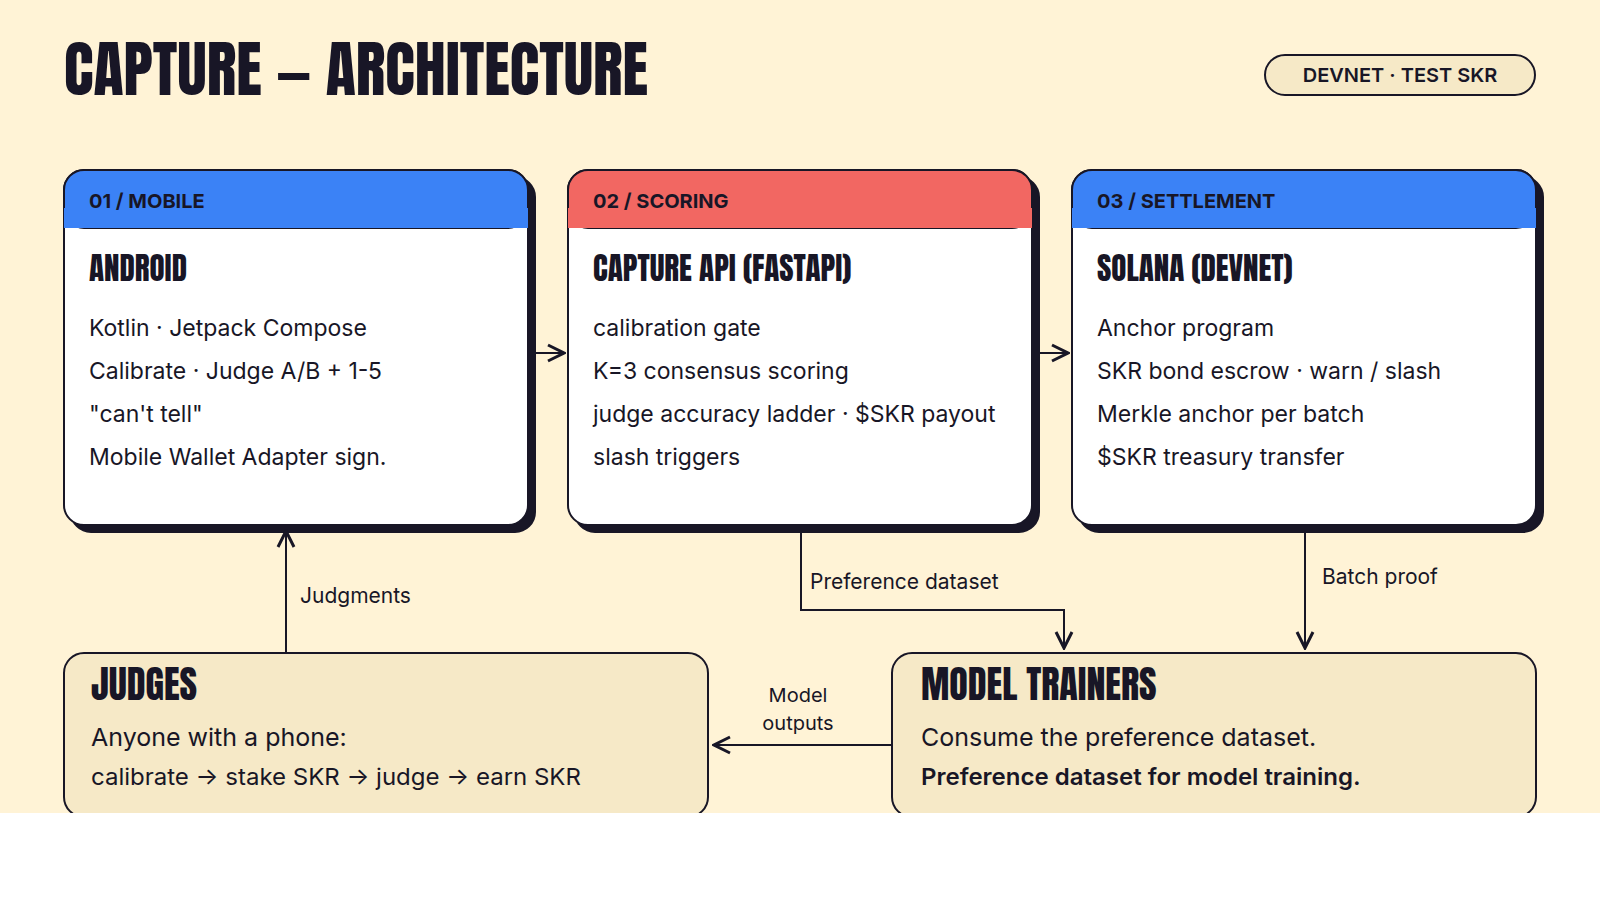
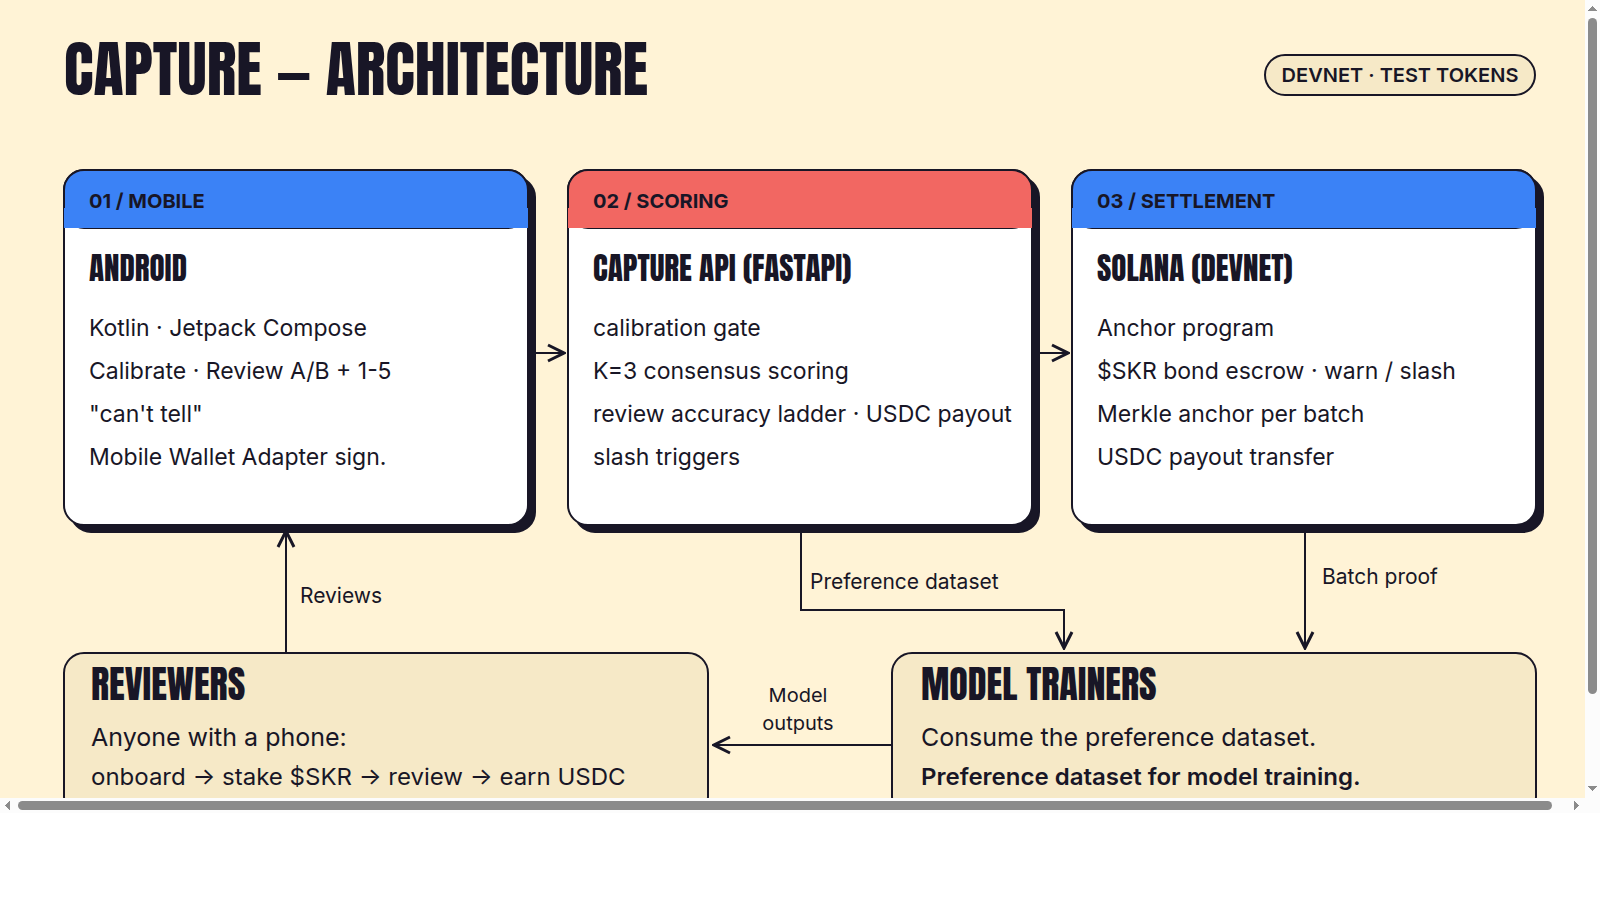
Fix token/vocabulary consistency across site and diagrams (USDC payout, SKR bond, review)

diff --git a/how-it-works.html b/how-it-works.html
@@ -4,7 +4,7 @@
 <meta charset="utf-8"/>
 <meta name="viewport" content="width=device-width, initial-scale=1"/>
 <title>How Capture Works</title>
-<meta name="description" content="Capture is a decentralized RLHF network — humans judge a vision model's outputs, consensus decides who gets paid. Test tokens on Solana devnet."/>
+<meta name="description" content="Capture is a decentralized RLHF network — humans review a vision model's outputs, consensus decides who gets paid. Test tokens on Solana devnet."/>
 <style>
 :root{--ink:#181626;--cream:#FFF3D6;--blue:#3B82F6;--coral:#F26762;--yellow:#FFD75E;--green:#147D42}
 *{box-sizing:border-box}
@@ -56,12 +56,12 @@ footer .links a{margin-right:16px;font-weight:600;text-decoration:none}
 </header>
 
 <section class="hero wrap">
-  <span class="eyebrow">Capture / Judgment network</span>
+  <span class="eyebrow">Capture / Review network</span>
   <h1>How Capture<br/>works.</h1>
-  <p class="lede">Capture is a decentralized RLHF network. Humans judge a vision model's outputs, consensus decides who gets paid, and a slashable stake prices every judgment.</p>
+  <p class="lede">Capture is a decentralized RLHF network. Humans review a vision model's outputs, consensus decides who gets paid, and a slashable stake prices every review.</p>
   <p>
     <span class="pill blue">Test tokens on devnet</span>
-    <span class="pill yellow">Over 18, self-attested</span>
+    <span class="pill yellow">18+, self-attested</span>
     <span class="pill">No production money</span>
   </p>
 </section>
@@ -69,29 +69,29 @@ footer .links a{margin-right:16px;font-weight:600;text-decoration:none}
 <section class="wrap">
   <h2>The loop</h2>
   <div class="steps">
-    <div class="step"><span class="num">01</span><h3>Calibrate</h3><p>Pass 10 known-consensus pairs before you can stake or earn.</p></div>
-    <div class="step"><span class="num">02</span><h3>Stake</h3><p>Deposit SKR to unlock paid judging. Your stake is the collateral at risk.</p></div>
-    <div class="step"><span class="num">03</span><h3>Judge</h3><p>Pick the better of two outputs, or rate one 1–5. "Can't tell" is always allowed.</p></div>
-    <div class="step"><span class="num">04</span><h3>Settle</h3><p>K=3 majority decides. Agree and earn; dissent earns nothing; farming is warned, then slashed.</p></div>
+    <div class="step"><span class="num">01</span><h3>Onboard</h3><p>Complete a liveness check, then pass 10 known-consensus pairs before you can stake or earn.</p></div>
+    <div class="step"><span class="num">02</span><h3>Stake</h3><p>Stake $SKR to unlock paid reviewing. Your stake is the collateral at risk.</p></div>
+    <div class="step"><span class="num">03</span><h3>Review</h3><p>Pick the better of two outputs, or rate one 1–5. "Can't tell" is always allowed.</p></div>
+    <div class="step"><span class="num">04</span><h3>Settle</h3><p>Three reviewers; the 2/3 majority pick becomes the label. Agree and earn; dissent earns nothing; farming is warned, then slashed.</p></div>
   </div>
 
   <h2>User flow</h2>
   <figure>
-    <img src="images/user-flow.png" alt="Capture user flow: calibrate, stake, judge, consensus, settle, dataset"/>
-    <figcaption>Calibrate → stake → judge → consensus → settle. A Merkle anchor commits each resolved batch on-chain.</figcaption>
+    <img src="images/user-flow.png?v=2" alt="Capture user flow: onboard, stake, review, consensus, settle, dataset"/>
+    <figcaption>Onboard → stake → review → consensus → settle. A Merkle anchor commits each resolved batch on-chain.</figcaption>
   </figure>
 
   <h2>Architecture</h2>
   <figure>
-    <img src="images/architecture.png" alt="Capture architecture: Android client, scoring API, Solana settlement"/>
-    <figcaption>Android client → scoring API (calibration, K=3 consensus, accuracy ladder) → Solana settlement (SKR bond escrow, warn/slash, treasury).</figcaption>
+    <img src="images/architecture.png?v=2" alt="Capture architecture: Android client, scoring API, Solana settlement"/>
+    <figcaption>Android client → scoring API (calibration, three-reviewer consensus, accuracy ladder) → Solana settlement ($SKR bond escrow, warn/slash, treasury).</figcaption>
   </figure>
 
   <h2>The product</h2>
   <div class="shots">
-    <figure><img src="images/screenshots/01-judge-mountains.jpg" alt="Judge: A/B preference on a mountains scene"/></figure>
-    <figure><img src="images/screenshots/02-judge-interior.jpg" alt="Judge: interior scene"/></figure>
-    <figure><img src="images/screenshots/03-calibrate-guide.jpg" alt="Calibrate: how to judge"/></figure>
+    <figure><img src="images/screenshots/01-judge-mountains.jpg" alt="Review: A/B preference on a mountains scene"/></figure>
+    <figure><img src="images/screenshots/02-judge-interior.jpg" alt="Review: interior scene"/></figure>
+    <figure><img src="images/screenshots/03-calibrate-guide.jpg" alt="Calibrate: how to review"/></figure>
     <figure><img src="images/screenshots/04-calibrate-standing.jpg" alt="Calibrate: standing by your answer"/></figure>
     <figure><img src="images/screenshots/05-balances.jpg" alt="Balances: earnings and level ladder"/></figure>
   </div>
@@ -99,7 +99,7 @@ footer .links a{margin-right:16px;font-weight:600;text-decoration:none}
   <h2>Measured, not claimed</h2>
   <div class="card">
     <p class="eyebrow">Vision judge benchmark</p>
-    <p>Our vision quality-judge grades each submission against the capture spec before acceptance. On a 45-sample labeled set it scored <strong>71.1%</strong> — a measured baseline that improves as labeled data grows.</p>
+    <p>Our vision quality-judge grades each submission against the capture spec before acceptance. On a 45-sample labeled set it scored <strong>71.1%</strong> — a measured baseline.</p>
     <table>
       <tr><th>Class</th><th>Correct</th></tr>
       <tr><td>Ground-level accept</td><td>5 / 5</td></tr>
@@ -112,7 +112,7 @@ footer .links a{margin-right:16px;font-weight:600;text-decoration:none}
       <tr><td>Static wall</td><td>2 / 5</td></tr>
       <tr><td>Eye-level</td><td>0 / 5</td></tr>
     </table>
-    <p>13 false-accepts, 0 false-rejects: the judge never wrongly rejects good content, but over-accepts some bad content.</p>
+    <p>13 false-accepts, 0 false-rejects: no good content was wrongly rejected in this 45-sample set, though some bad content was over-accepted.</p>
     <p class="eyebrow" style="margin-top:24px">Test suite (measured 2026-10-29)</p>
     <p>Backend 212 passed / 10 skipped · Rust 15 · Android 67. Counts are from a real run against the live checkout.</p>
   </div>
@@ -120,7 +120,7 @@ footer .links a{margin-right:16px;font-weight:600;text-decoration:none}
   <div class="honest">
     <strong>Honest lines</strong>
     <ul>
-      <li>Test SKR and USDC on devnet — no production money, no production claims.</li>
+      <li>Test $SKR and USDC on devnet: no production money, no production claims.</li>
       <li>Majority-preference bias is real: RLHF on majority preference flattens minority views.</li>
       <li>18+, self-attested — not a cryptographic proof of age.</li>
       <li>Built for Android.</li>
@@ -135,7 +135,7 @@ footer .links a{margin-right:16px;font-weight:600;text-decoration:none}
     <a href="/">Home</a>
     <a href="mailto:hello@capture.fun">hello@capture.fun</a>
   </div>
-  <p style="margin-top:12px">Capture · Test tokens on Solana devnet · Over 18, self-attested · No production claims</p>
+  <p style="margin-top:12px">Capture · Test tokens on Solana devnet · 18+, self-attested · No production claims</p>
 </footer>
 </body>
 </html>
